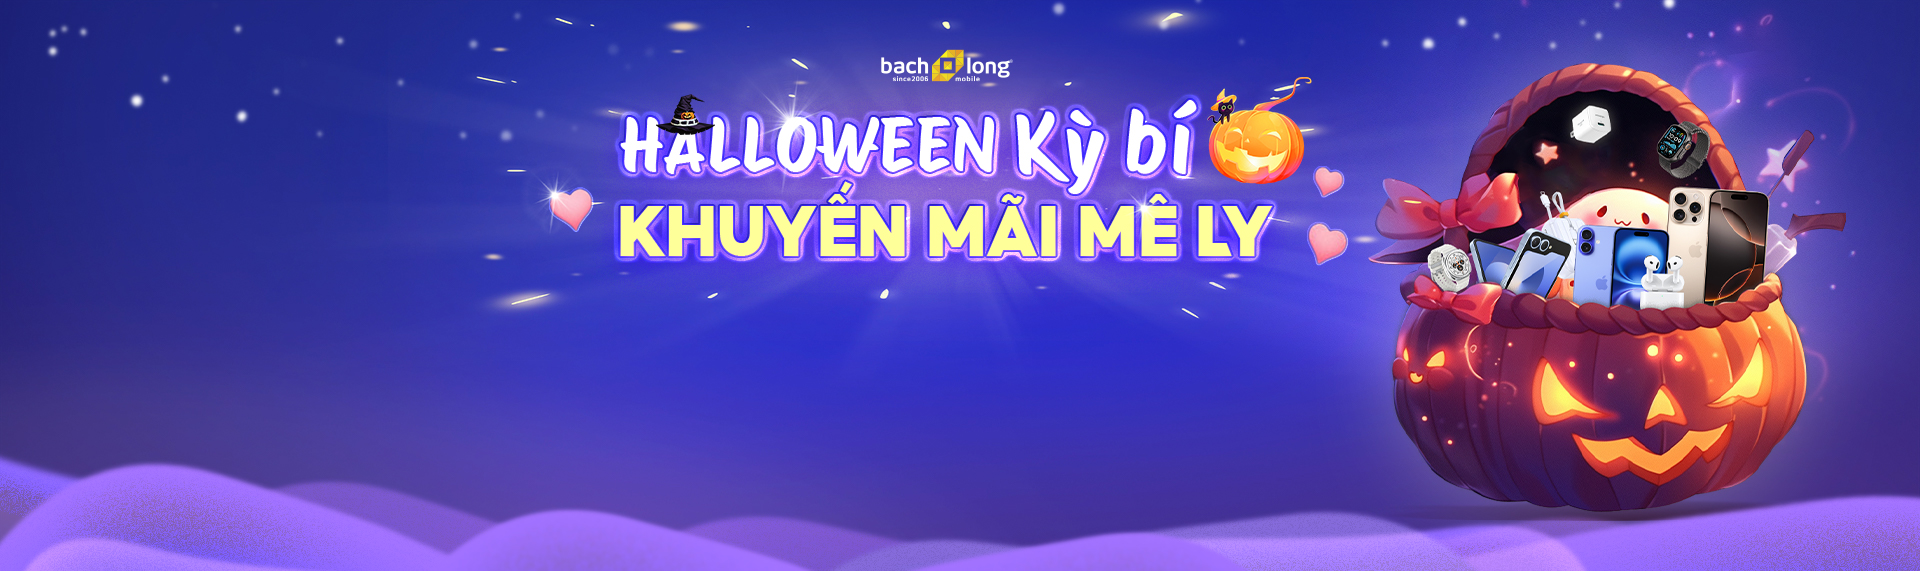
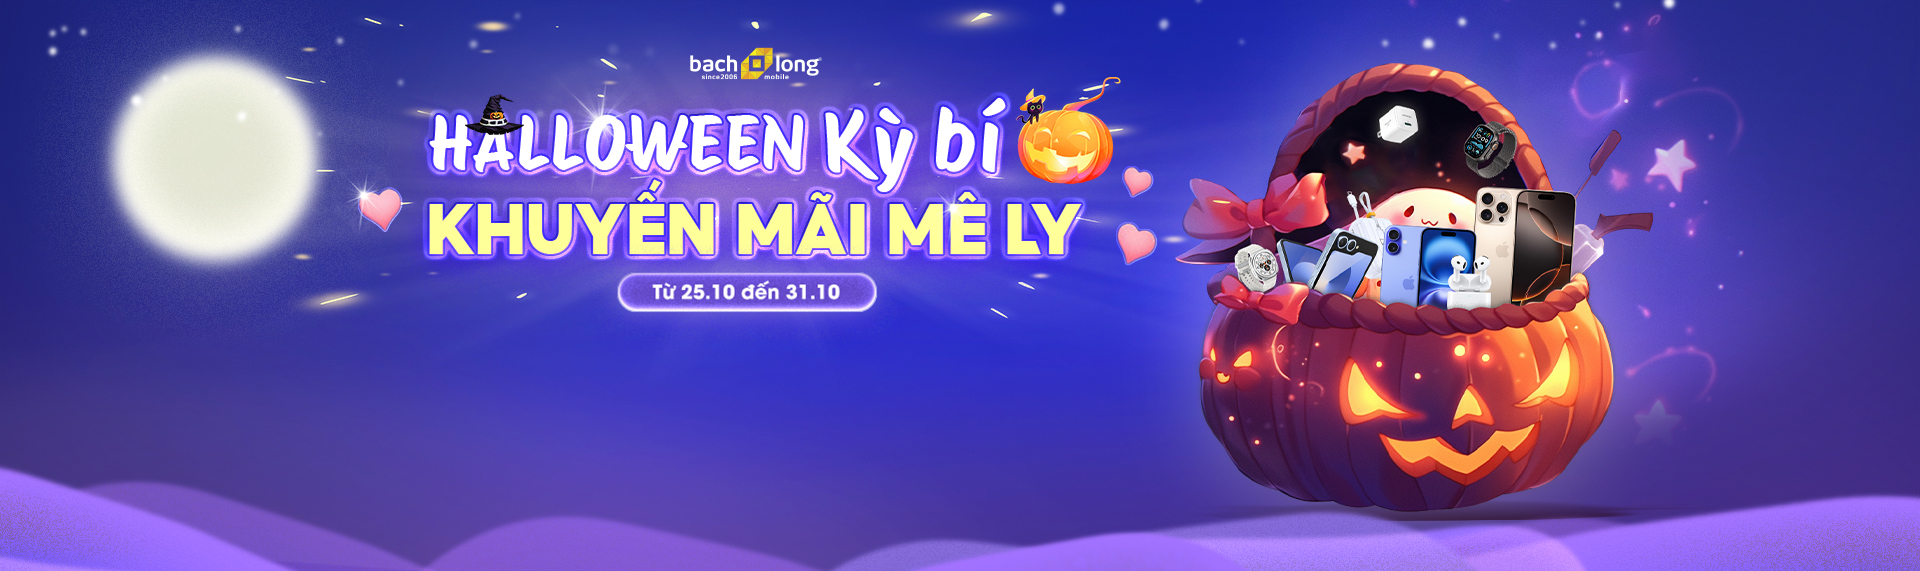
upload code

diff --git a/src/Component/ComponentPageHalloween/BannerHalloween/page.tsx b/src/Component/ComponentPageHalloween/BannerHalloween/page.tsx
@@ -3,16 +3,11 @@ import React from 'react';
 import Image from 'next/image';
 import BgHallo from '../../../../public/halloween/bg-hallo.png';
 import BgHalloMobile from '../../../../public/halloween/bg-hallo-mobile.png';
-import HeadHallo from '../../../../public/halloween/head-hallo.png';
+import HeadHallo from '../../../../public/halloween/head-hallo.jpg';
 import TableBanner01 from '../../../../public/halloween/table-banner-01.png';
 import TableBanner02 from '../../../../public/halloween/table-banner-02.png';
 import TableBanner03 from '../../../../public/halloween/table-banner-03.png';
 import TableBanner04 from '../../../../public/halloween/table-banner-04.png';
-import Cloud1 from '../../../../public/halloween/cloud1.png';
-import Cloud2 from '../../../../public/halloween/cloud2.png';
-import Cloud3 from '../../../../public/halloween/cloud3.png';
-import Cloud4 from '../../../../public/halloween/cloud4.png';
-import Cloud5 from '../../../../public/halloween/cloud5.png';
 import './banner-halloween.scss';
 
 const BannerHalloween = () => {
@@ -120,16 +115,16 @@ const BannerHalloween = () => {
 						className='bg-hallo-mobile'
 					/>
 				</div>
-				<div className='clouds'>
+				{/* <div className='clouds'>
 					<Image src={Cloud1} alt='cloud-1' style={{ '--i': 1 } as any} width={1820} height={1500} />
 					<Image src={Cloud2} alt='cloud-2' style={{ '--i': 2 } as any} width={1820} height={1500} />
 					<Image src={Cloud3} alt='cloud-3' style={{ '--i': 3 } as any} width={1820} height={1500} />
 					<Image src={Cloud4} alt='cloud-4' style={{ '--i': 4 } as any} width={1820} height={1500} />
 					<Image src={Cloud5} alt='cloud-5' style={{ '--i': 5 } as any} width={1820} height={1500} />
-				</div>
+				</div> */}
 				<Image src={BgHallo} width={1820} height={1500} alt='bg-hallo' className='bg-hallo' />
 				<div className='overlay'></div>
-				<div className='sky'>
+				{/* <div className='sky'>
 					<div className='moon' />
 					<div className='clouds'>
 						<span />
@@ -137,8 +132,8 @@ const BannerHalloween = () => {
 						<span />
 						<span />
 					</div>
-				</div>
-				<div className='content'>
+				</div> */}
+				{/* <div className='content'>
 					<div className='level-0'>
 						<div className='door'>
 							<div className='nosferatu' />
@@ -233,13 +228,6 @@ const BannerHalloween = () => {
 						</div>
 						<div className='chimney' />
 					</div>
-					{/* <div className='fence'>
-						<span />
-						<span />
-						<div className='tomb'>RIP</div>
-						<div className='zombie-hand' />
-						<div className='stones' />
-					</div> */}
 					<div className='skeleton-floating' />
 					<div className='skeleton'>
 						<div className='head'>
@@ -328,19 +316,7 @@ const BannerHalloween = () => {
 							</div>
 						</div>
 					</div>
-					{/* <div className='pumpkin'>
-						<span />
-						<span />
-						<span />
-						<span />
-						<span />
-						<div className='eyes' />
-						<div className='nose' />
-						<div className='mouth'>
-							<div className='teeth' />
-						</div>
-					</div> */}
-				</div>
+				</div> */}
 			</div>
 		</div>
 	);

diff --git a/src/Component/ComponentPageHalloween/BannerHalloween/banner-halloween.scss b/src/Component/ComponentPageHalloween/BannerHalloween/banner-halloween.scss
@@ -131,25 +131,26 @@
 	}
 
 	.banner-hallo {
-		position: absolute;
+		position: relative;
 		top: 0;
 		right: 0;
 		z-index: 50;
 		width: 100%;
 		height: 100%;
 		@media screen and (max-width: 850px) {
-			z-index: 400;
+			z-index: 40;
 			top: 0;
 			position: relative;
 		}
 
 		&-table {
 			position: absolute;
-			top: 50%;
-			left: 48%;
+			top: 58%;
+			left: 38%;
 			display: flex;
 			transform: translate(-50%, 0);
-			z-index: 50;
+			z-index: 20;
+			width: 50%;
 			@media screen and (max-width: 850px) {
 				display: none;
 			}
